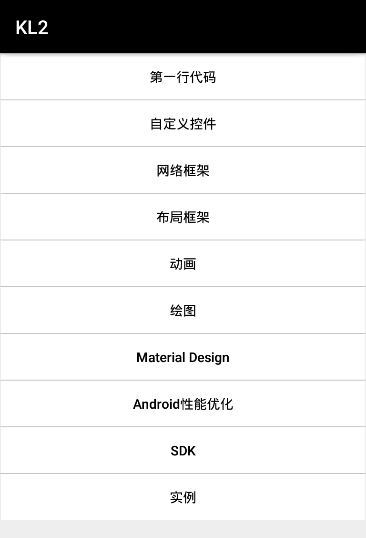
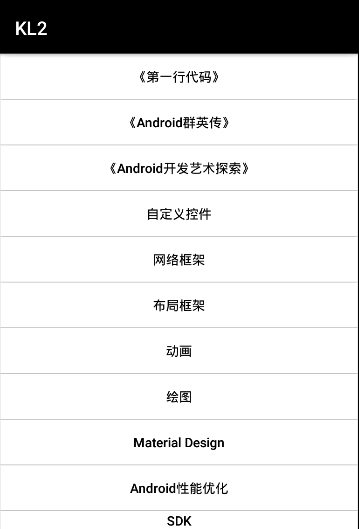
更新效果图。

diff --git a/app/src/main/java/com/jweihao/jdemo/ui/activity/MainActivity.java b/app/src/main/java/com/jweihao/jdemo/ui/activity/MainActivity.java
@@ -13,7 +13,6 @@ import com.jweihao.jdemo.ui.activity.example.ExampleActivity;
 import com.jweihao.jdemo.ui.activity.layout.LayoutActivity;
 import com.jweihao.jdemo.ui.activity.md.MaterialDesignActivity;
 import com.jweihao.jdemo.ui.activity.property.ViewStubActivity;
-import com.jweihao.jdemo.ui.activity.sdk.BaiduActivity;
 import com.jweihao.jdemo.ui.activity.sdk.SDKActivity;
 import com.jweihao.jdemo.utils.GoToActivityUtil;
 import com.wh.customcontrol.R;
@@ -54,13 +53,20 @@ public class MainActivity extends AppCompatActivity {
 
 
     @OnClick({R.id.button_diyihang, R.id.button_custom, R.id.button_http, R.id.button_layout, R.id.button_animation,
-            R.id.button_md, R.id.button_property, R.id.button_example, R.id.button_canvas,
+            R.id.button_md, R.id.button_property, R.id.button_example, R.id.button_canvas, R.id.button_hero, R.id.button_art,
             R.id.button_sdk
     })
     public void onViewClicked(View view) {
         switch (view.getId()) {
+            //《第一行代码》
             case R.id.button_diyihang:
                 GoToActivityUtil.goToActivity(this, DiYiHangActivity.class);
+                break;
+            //《Android群英传》
+            case R.id.button_hero:
+                break;
+            //《Android开发艺术探索》
+            case R.id.button_art:
                 break;
             case R.id.button_custom:
                 GoToActivityUtil.goToActivity(this, CustomActivity.class);
@@ -94,5 +100,4 @@ public class MainActivity extends AppCompatActivity {
 
         }
     }
-
 }
